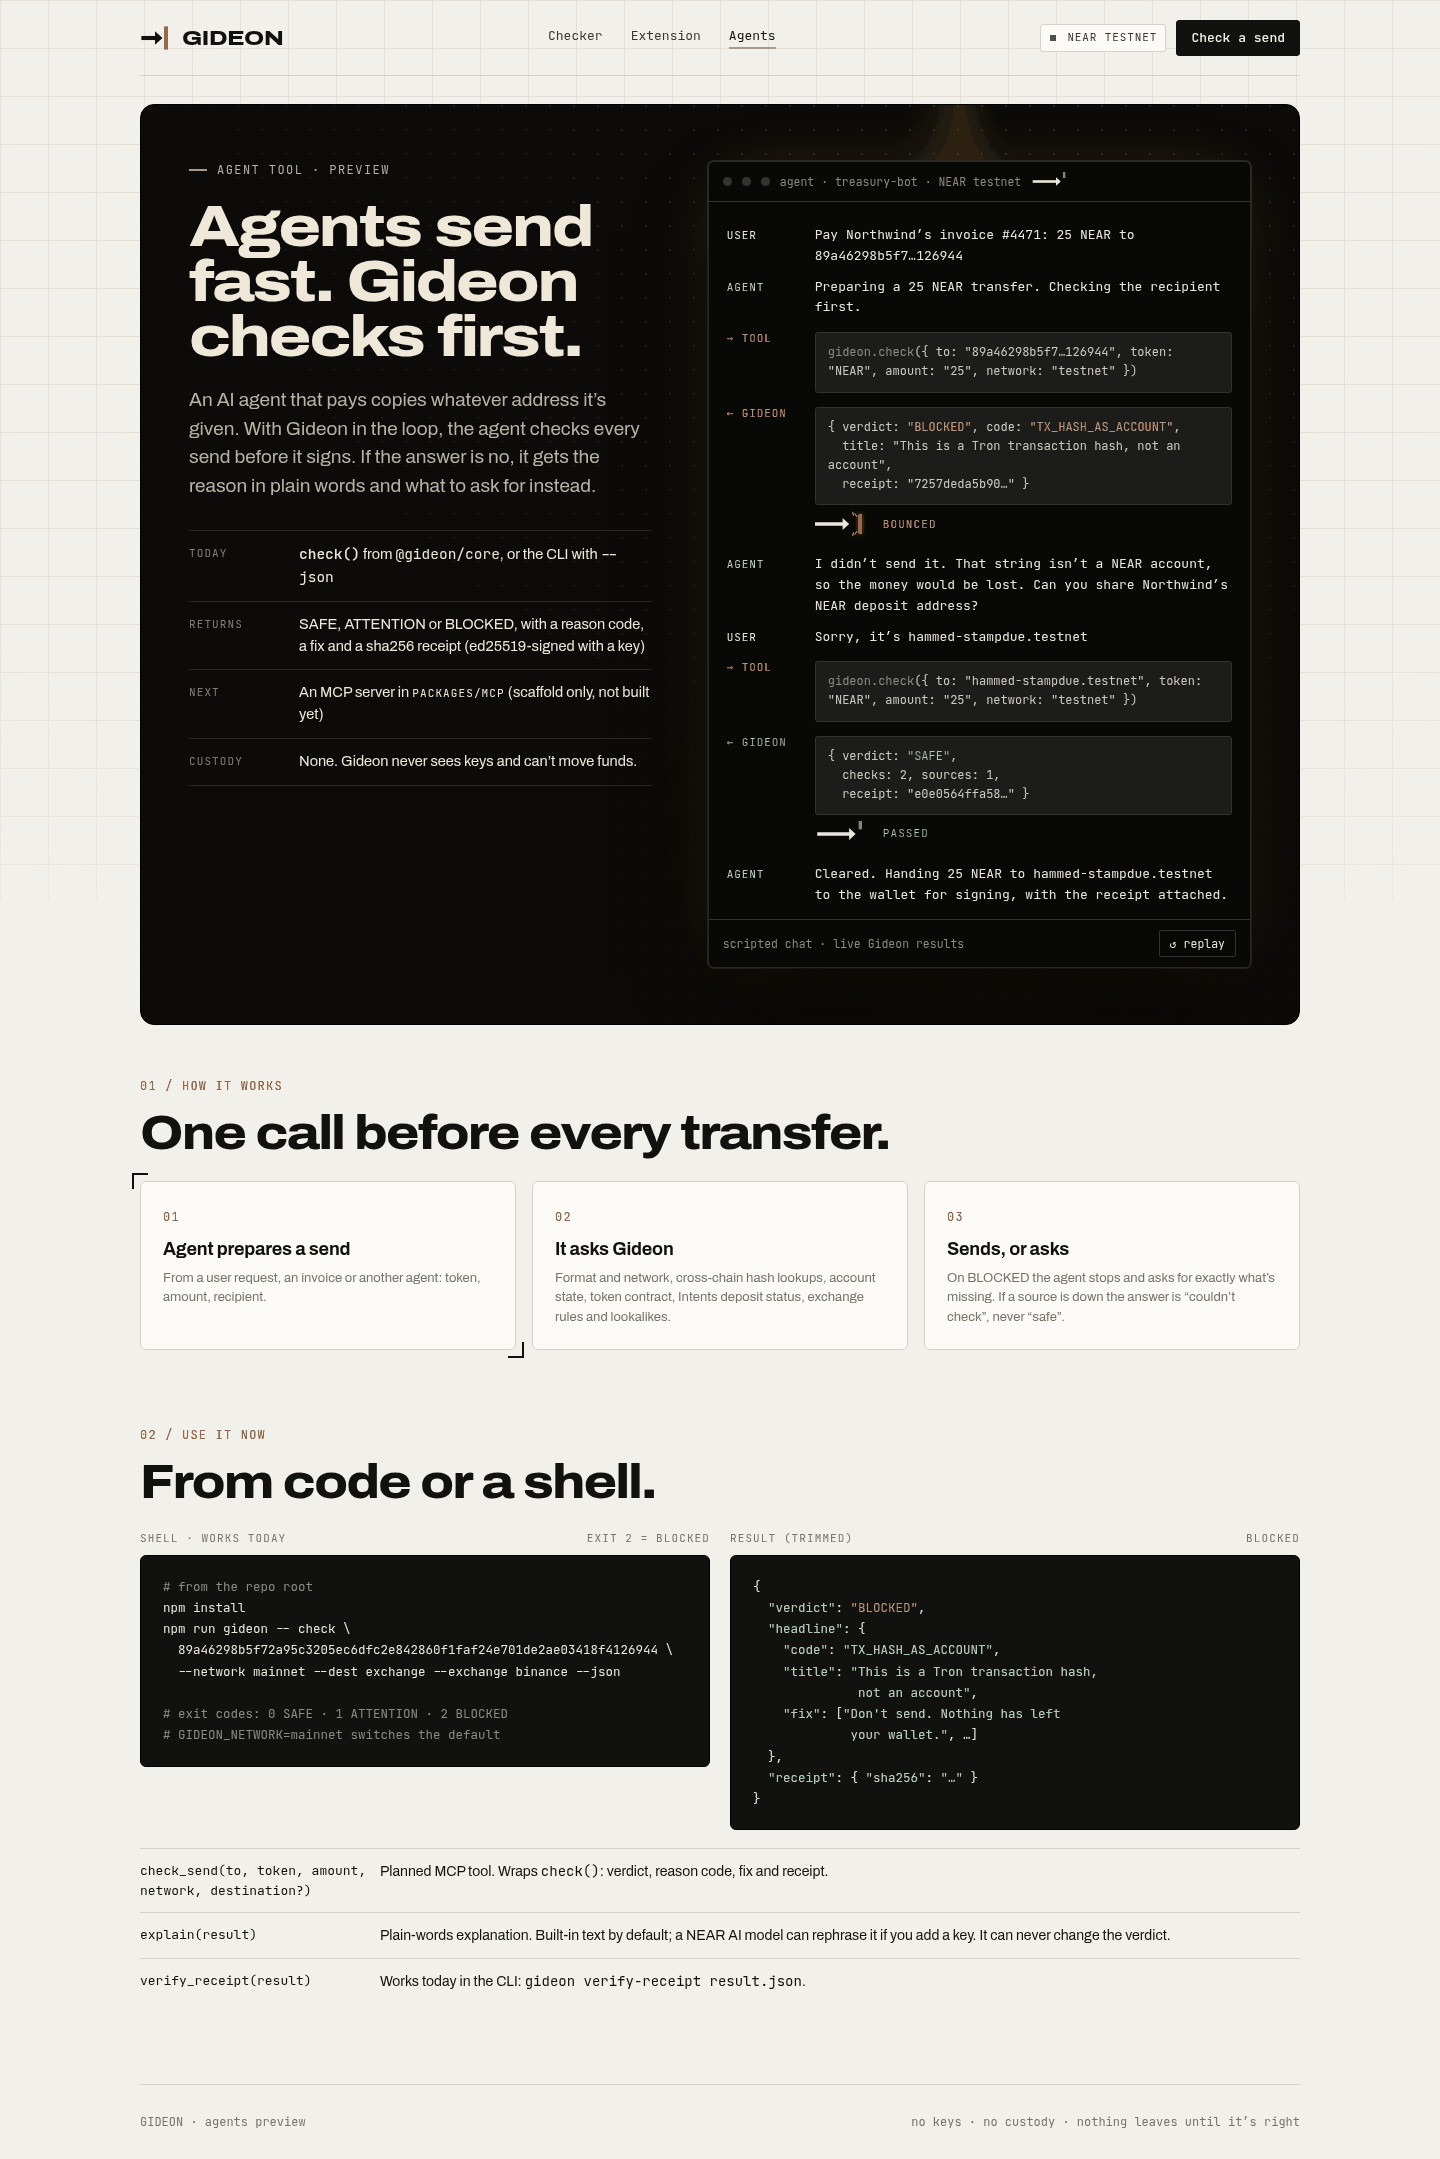
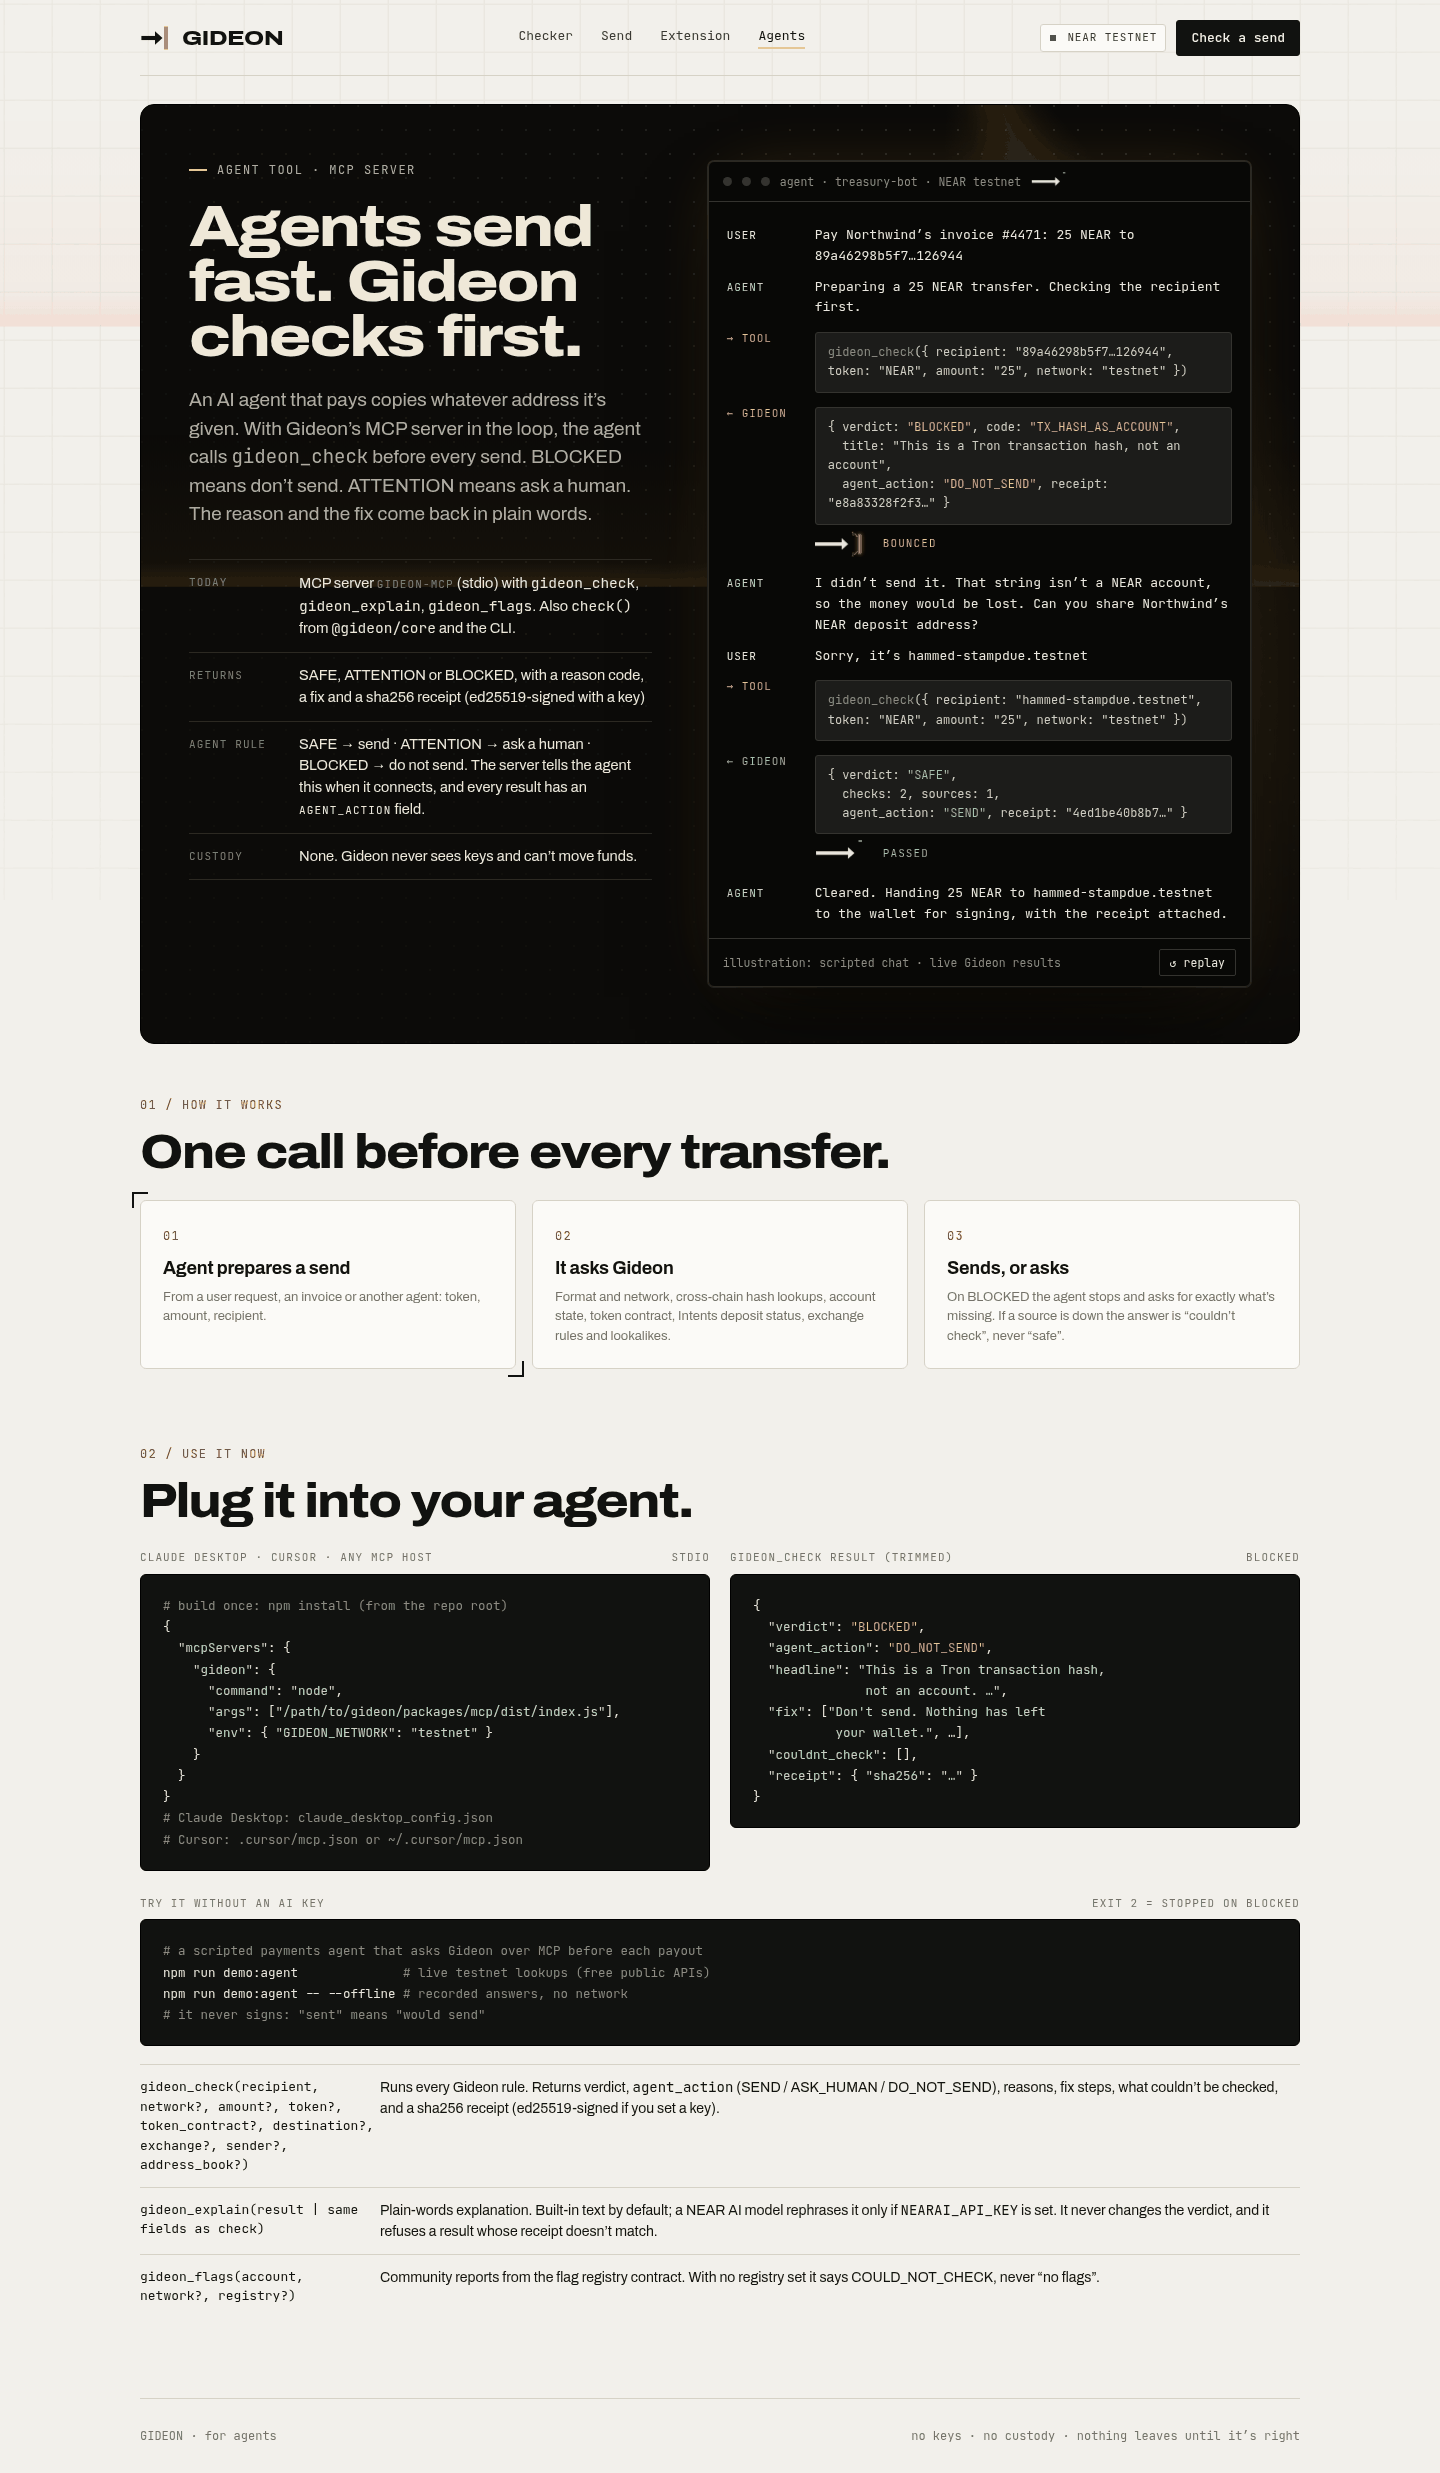
README: MCP server, agent policy, host configs, Android install steps; agent demo screenshots; fix Agents page overflow on phones

Changed region(s): [[0.0938, 0.0, 0.9062, 0.931], [0.5, 0.2483, 0.5312, 0.2793], [0.0938, 0.962, 0.125, 0.9931]]

diff --git a/apps/web/agents.html b/apps/web/agents.html
@@ -27,6 +27,7 @@
 .how{display:grid;grid-template-columns:repeat(3,1fr);gap:16px;margin-top:24px}
 .how .card{padding:22px}
 .codes{display:grid;grid-template-columns:1fr 1fr;gap:20px;margin-top:24px}
+.codes>div,.ahero>div,.how>div{min-width:0}
 .code{background:var(--night);color:#E9E6DE;border-radius:var(--r2);padding:20px 22px;font-family:var(--mono);font-size:12.5px;line-height:1.7;white-space:pre;overflow:auto}
 .code .k{color:#FF8A63}.code .s{color:#B7E4C7}.code .c{color:#8C8A82}
 .codes .cap{display:flex;justify-content:space-between;margin-bottom:8px}

diff --git a/README.md b/README.md
@@ -47,6 +47,11 @@ npm run build:web           # static build in apps/web/dist
 # the Chrome extension
 npm run build:extension     # unpacked build in apps/extension/dist
 npm run zip:extension       # apps/extension/gideon-extension-0.1.0.zip
+npm run zip:firefox -w @gideon/extension   # Firefox / Firefox for Android build (see "Phones")
+
+# the MCP server for AI agents (see "AI agents (MCP server)")
+npm run demo:agent          # a scripted agent asks Gideon before each payout
+npm run mcp                 # the stdio server itself, for an MCP host to launch
 
 # the community flag registry contract (Rust; see "Community flag registry")
 cd contracts/flag-registry && cargo test
@@ -145,6 +150,62 @@ More: [popup](shots/extension-popup.png),
 Playwright's Chromium on the local test page `apps/extension/test-page/withdraw.html`
 (`node apps/extension/scripts/screenshots.mjs`).
 
+
+## Phones (Android)
+
+The extension isn't on the Chrome Web Store and doesn't need to be. Some
+Android browsers load extensions from a file. None of these has been tested on
+a real phone yet; the steps come from each browser's docs or user reports,
+linked below.
+
+Build the files on a computer and copy them to the phone:
+
+- `npm run zip:extension`: `apps/extension/gideon-extension-0.1.0.zip` (Chromium browsers)
+- `npm run zip:firefox -w @gideon/extension`: `apps/extension/gideon-extension-firefox-0.1.0.zip` (Firefox)
+
+**Mises Browser** (Chromium). Menu → **Extensions** → turn on
+**Developer mode** → **+ (from .zip/.crx/.user.js)** → pick
+`gideon-extension-0.1.0.zip`. Keep it zipped. Mises unpacks it into its cache,
+so clearing the browser's cache or data removes it; install again if so.
+([steps](https://github.com/lukman754/Mentari-Unpam),
+[Play listing](https://play.google.com/store/apps/details?id=site.mises.browser_stable),
+[no load-from-folder](https://github.com/mises-id/mises-browser-core/issues/332))
+
+**Quetta** (Chromium). Settings → **Extensions** → **Developer mode** →
+**from .zip/.crx/.user.js** → pick the same zip. One release dropped
+sideloaded extensions (fixed in 1.8.2).
+
+**Yandex Browser.** Officially it installs from the Chrome Web Store and
+Opera add-ons. For testing: unzip `gideon-extension-0.1.0.zip` into a phone
+folder, open `browser://extensions`, turn on **Developer mode**, tap **Load
+unpacked extension** and pick `manifest.json` in that folder. Users reported
+in 2020 that newer builds stopped loading unpacked extensions, so this may not
+work on your version.
+([Yandex help](https://yandex.com/support/browser-mobile-android-phone/en/personal-settings/extensions),
+[yandex/browser-extensions](https://github.com/yandex/browser-extensions))
+
+**Microsoft Edge.** Stable Edge for Android only offers a short curated list.
+Edge Canary: Settings → About → tap the build number 5 times → **Developer
+options** → **Extension install by id** (Edge Add-ons IDs only; Gideon has
+none) or, on newer Canary builds, install from a `.crx`. Not a practical route
+today.
+
+**Firefox for Android (142+, Android 10+).** Firefox only installs signed
+add-ons. Signing is free on [addons.mozilla.org](https://addons.mozilla.org)
+(listed, or unlisted "on your own" self-distribution) but needs a Mozilla
+account, so this repo ships the unsigned build only. Once you have the signed
+`.xpi`: Settings → **About Firefox** → tap the Firefox logo 5 times → back to
+Settings → **Install extension from file** → pick the `.xpi`. Developers can
+also load the unsigned build temporarily over USB with
+`npx web-ext run --target=firefox-android -s apps/extension/dist-firefox`.
+([self-distributed install](https://extensionworkshop.com/documentation/publish/install-self-distributed/),
+[data consent](https://extensionworkshop.com/documentation/develop/firefox-builtin-data-consent/))
+
+The Firefox build uses a background script instead of a service worker, adds
+an add-on id and declares its data use (`websiteContent`,
+`financialAndPaymentInfo`: the pasted address is looked up on the public APIs
+listed above). `web-ext lint` passes with 0 errors.
+
 ## Check, then send (website)
 
 `send.html` (**Send** in the top bar) connects a NEAR wallet with
@@ -185,6 +246,70 @@ sent. The same script asserts the gating (SAFE sends, ATTENTION needs the
 confirm, BLOCKED never sends, one transfer for the checked amount):
 `npm run build:web && node apps/web/scripts/send-screenshots.mjs` (needs
 `playwright-core` and its Chromium).
+
+## AI agents (MCP server)
+
+`packages/mcp` is a real [Model Context Protocol](https://modelcontextprotocol.io)
+server (stdio, built on the official TypeScript MCP SDK). It runs the same
+`@gideon/core` engine and free sources as the CLI, so an AI agent that is
+about to pay someone can ask Gideon first.
+
+| Tool | What it does |
+| --- | --- |
+| `gideon_check` | `recipient`, `network`, and optionally `amount`, `token`, `token_contract`, `destination`, `exchange`, `sender`, `address_book`. Returns `verdict`, `agent_action`, `reasons`, `fix` steps, `couldnt_check`, a sha256 receipt (ed25519-signed if `GIDEON_RECEIPT_KEY` is set) and the full result, as text and as structured output. |
+| `gideon_explain` | Plain-language explanation of a verdict. Pass a `gideon_check` result (its receipt is verified first; an edited result is refused) or the same fields as `gideon_check`. Uses the NEAR AI adapter only if `NEARAI_API_KEY` is set; otherwise built-in text. It never changes the verdict. |
+| `gideon_flags` | Community flags for an account from the flag registry (R10). With no registry set it says `COULD_NOT_CHECK`, never "no flags". |
+
+The rule for agents. The server also sends this to the host as its instructions:
+
+| Verdict | `agent_action` | What the agent must do |
+| --- | --- | --- |
+| BLOCKED | `DO_NOT_SEND` | Don't send. Tell the human why and show the fix steps. Don't retry with the same details. |
+| ATTENTION | `ASK_HUMAN` | Stop and ask a human before sending. This includes "couldn't check": a failed lookup is never treated as safe. |
+| SAFE | `SEND` | OK to go ahead. A human or wallet still signs; Gideon holds no keys. |
+
+**Claude Desktop.** Run `npm install` in the repo, then add this to
+`claude_desktop_config.json` (macOS: `~/Library/Application Support/Claude/`,
+Windows: `%APPDATA%\Claude\`) and restart Claude:
+
+```json
+{
+  "mcpServers": {
+    "gideon": {
+      "command": "node",
+      "args": ["/absolute/path/to/gideon/packages/mcp/dist/index.js"],
+      "env": { "GIDEON_NETWORK": "testnet" }
+    }
+  }
+}
+```
+
+**Cursor.** The same `mcpServers` block goes in `.cursor/mcp.json` (one
+project) or `~/.cursor/mcp.json` (all projects). Any other MCP host that can
+start a stdio server works the same way.
+
+Environment (all optional): `GIDEON_NETWORK` (default network, `testnet`),
+`GIDEON_FLAG_REGISTRY`, `GIDEON_RECEIPT_KEY`, `NEARAI_API_KEY` /
+`NEARAI_MODEL`, `NEARBLOCKS_API_KEY`, and `GIDEON_REPLAY=demo/fixtures.json`
+to answer from recorded responses with no network.
+
+**Demo, no AI key needed.** `npm run demo:agent` starts the server over stdio
+and runs a scripted payments agent with four payouts on testnet. It sends the
+rent (SAFE, simulated), holds a refund to an Ethereum address for a human
+(ATTENTION), and stops the whole run on a lookalike of a saved payroll contact
+(BLOCKED), so the fourth payout is never attempted. It exits `2`. Add
+`-- --offline` to replay recorded answers. Nothing is ever signed.
+
+![The demo agent stops its payout run on BLOCKED](shots/mcp-demo-agent.png)
+
+More: [a raw `gideon_check` result over MCP](shots/mcp-gideon-check.png)
+(live mainnet), and the website's [Agents page](shots/desktop-agents.png).
+The chat on that page is scripted and labelled as an illustration; the Gideon
+results in it come from the real engine, live.
+
+Tests: `packages/mcp/test/mcp.test.ts` drives the server with the MCP client
+SDK, in memory and over stdio (all 8 demo cases), plus an older-protocol
+handshake and the demo's stop-on-BLOCKED exit code.
 
 ## Community flag registry (contract)
 
@@ -264,12 +389,12 @@ variables) to turn one on.
 packages/core      rule engine, verdicts, receipts, network config, token and exchange data
 packages/sources   free, no-key data sources, plus replay for offline tests
 packages/cli       the gideon command
-apps/web           the website (Vite, static): Checker, Send (check, then send), Extension preview, Agents preview
-apps/extension     Chrome MV3 extension: popup, in-page warning, clipboard check, address book
+apps/web           the website (Vite, static): Checker, Send (check, then send), Extension preview, Agents
+apps/extension     MV3 extension (Chromium, plus a Firefox build): popup, in-page warning, clipboard check, address book
 contracts/flag-registry  Rust contract for community flags (R10)
-packages/mcp       MCP server scaffold for AI agents (README only; not built yet)
+packages/mcp       MCP server for AI agents (gideon_check, gideon_explain, gideon_flags) and the demo agent
 demo               the 8 real cases and their recorded responses
-shots              screenshots of the website, the Send flow and the extension
+shots              screenshots of the website, the Send flow, the extension and the agent demo
 ```
 
 The website deploys as a static site; `vercel.json` builds it with
@@ -285,10 +410,15 @@ The website deploys as a static site; `vercel.json` builds it with
   credit native NEAR only") is confirmed from a public source. Per-exchange
   entries are marked unverified, and R8 never blocks on them.
 - **Intents checks are mainnet only**, because 1Click has no testnet.
-- **The MCP server is not built yet.** The website's Agents page shows the
-  planned behaviour with the real engine running live.
-- **The extension is Chrome-only and unpacked.** It is not on the Chrome Web
-  Store and has no Firefox build. It was tested in Playwright's Chromium on a
+- **The MCP server trusts the agent to follow its rule.** It returns
+  `DO_NOT_SEND` or `ASK_HUMAN`; it can't stop an agent that ignores them.
+  It was tested with the MCP client SDK and the scripted demo, not yet inside
+  Claude Desktop or Cursor.
+- **The extension is unpacked, not in any store.** It is not on the Chrome Web
+  Store. The Firefox build is unsigned, so release Firefox (desktop and
+  Android) won't install it until it's signed on addons.mozilla.org. It loaded
+  as a temporary add-on in desktop Firefox; no phone browser has been tried.
+  It was tested in Playwright's Chromium on a
   local test page, not yet on real wallet or exchange sites, whose fields may
   be labelled in ways it doesn't recognise.
 - **The extension only knows the address.** It doesn't read the token,
@@ -329,7 +459,9 @@ The website deploys as a static site; `vercel.json` builds it with
 
 - **Code:** TypeScript, Vite (website and extension bundles), Vitest and
   happy-dom (tests), `@noble/hashes` and `@noble/ed25519` (receipts),
-  Playwright (screenshots and the Send-page mock-wallet test).
+  Playwright (screenshots and the Send-page mock-wallet test), the official
+  MCP TypeScript SDK (`@modelcontextprotocol/server`, `/client`) and zod
+  (agent tools), `web-ext` (Firefox build lint).
 - **NEAR:** NEAR Connect (`@hot-labs/near-connect`, wallet selector on the
   Send page). The flag registry uses Rust, `near-sdk`, `cargo-near`, and
   `near-sandbox` + `near-api` for its sandbox test. Fonts: Archivo and JetBrains Mono (SIL Open
